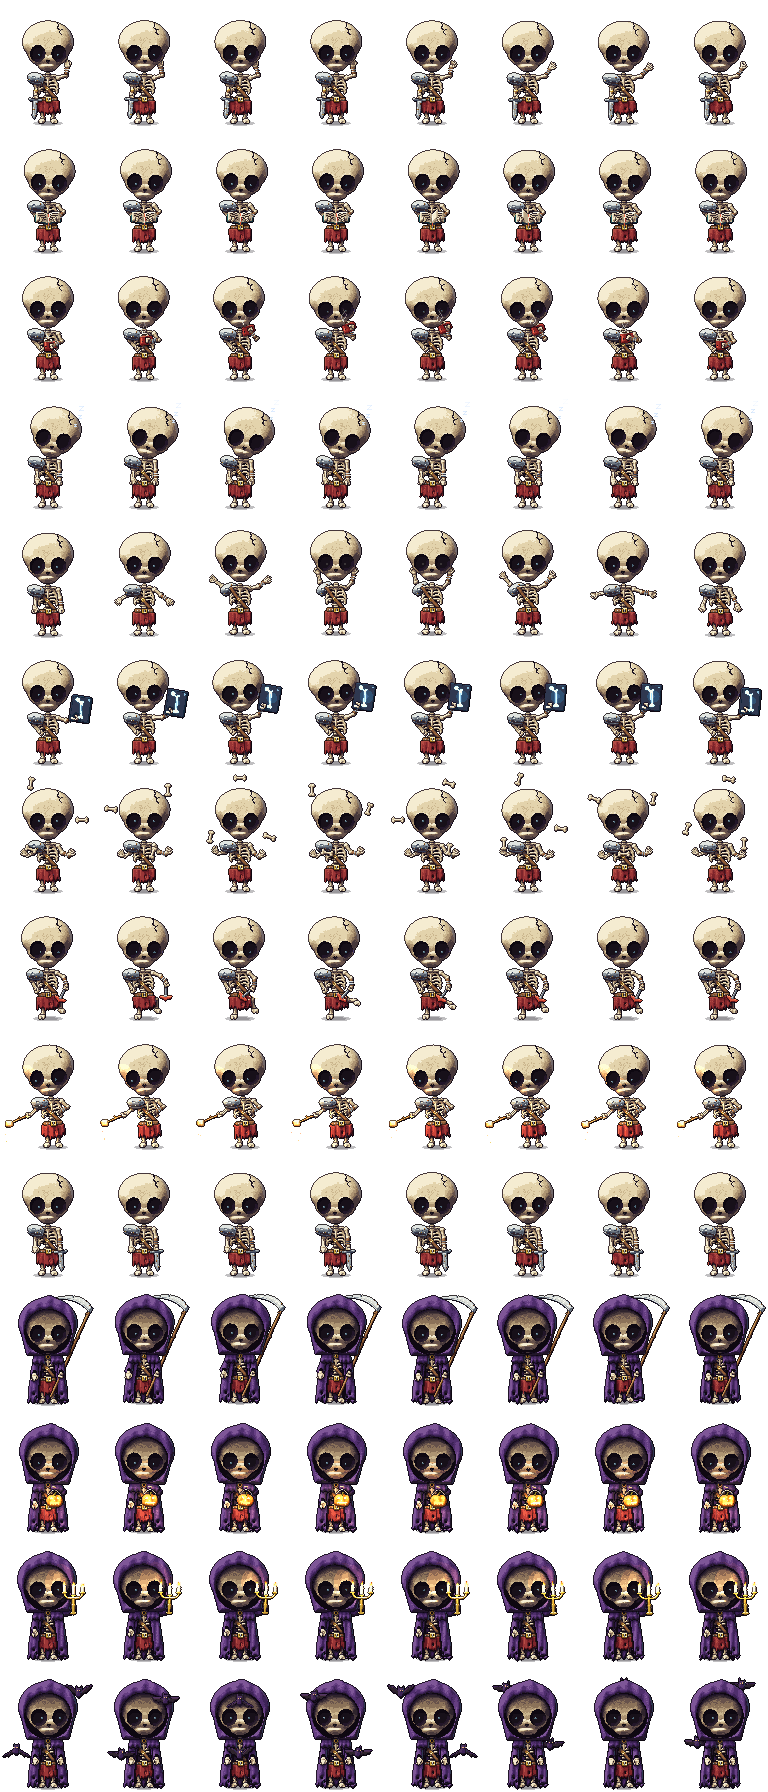
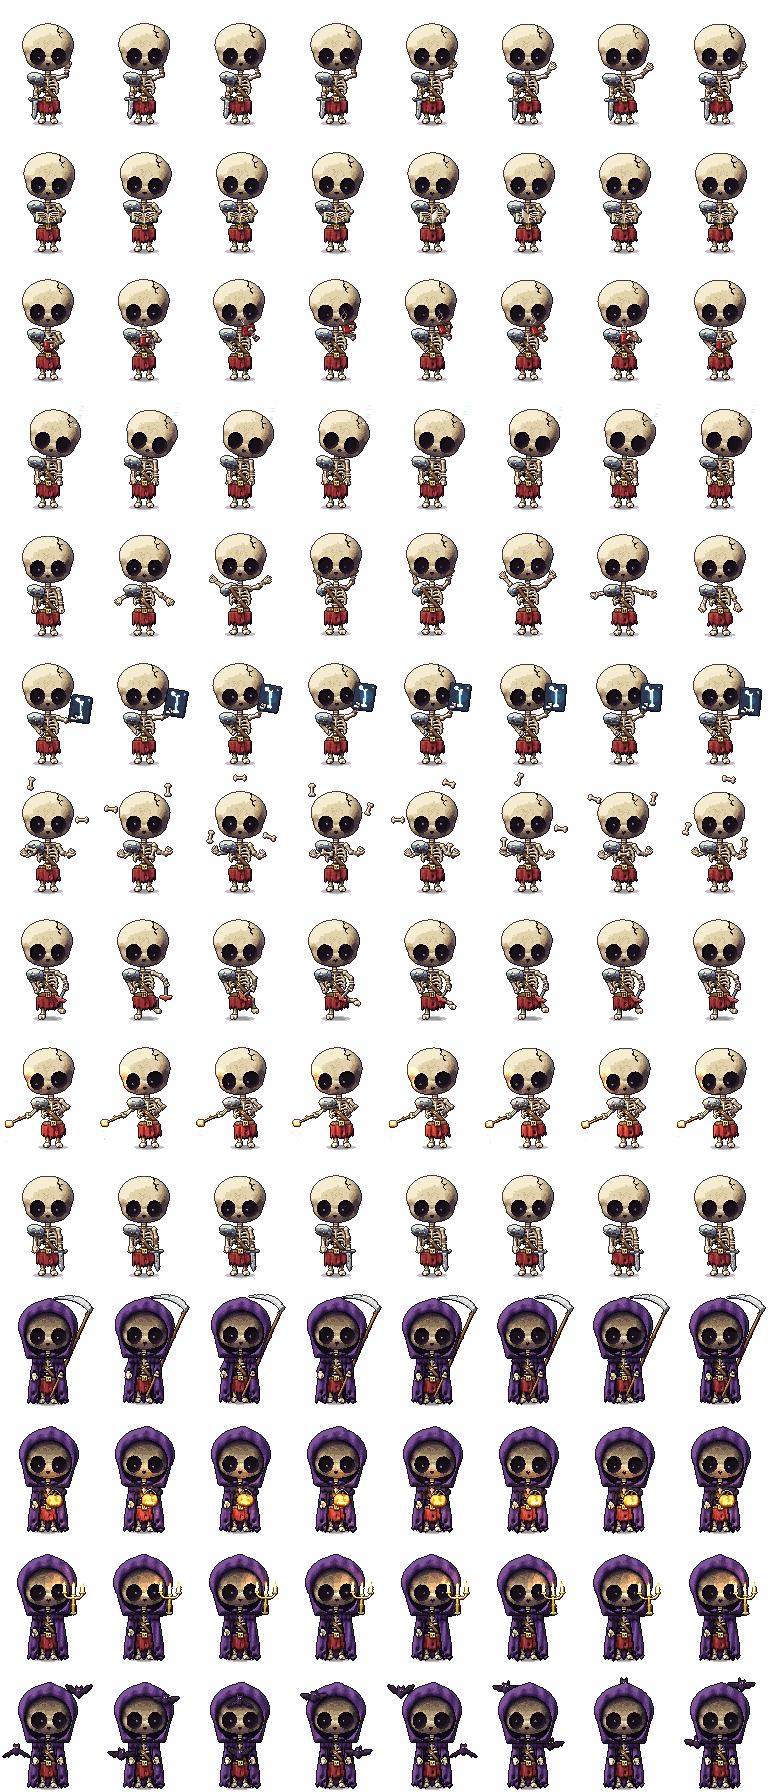
Mascote: rosto redondo como na referência, sem queixo saliente
O queixo emendado parecia um focinho. O rosto agora fecha numa curva larga
logo abaixo do nariz, o crânio desce um pouco e o pescoço ganha duas
vértebras para não ficar solto.

Claude-Session: https://claude.ai/code/session_01GbKgzzZKzHQDKNkw1eCv9w

diff --git a/scripts/gerar_mascote.py b/scripts/gerar_mascote.py
@@ -583,7 +583,7 @@ def montar(p: Pose) -> Rig:
     pesc = tr.p(0, -28.4 - p.resp * 0.5)
     piv = (pesc[0] + p.cab_dx, pesc[1] + p.cab_dy)
     ang_c = p.inclina + p.cab
-    cab = Quadro2D(Quadro2D(piv, ang_c).p(0, -24), ang_c)
+    cab = Quadro2D(Quadro2D(piv, ang_c).p(0, -21), ang_c)   # o crânio sem mandíbula desce um pouco
     r = Rig(raiz, P, tr, cab)
     for lado, s, (a1, a2, a3, _) in (("e", -1, p.be), ("d", 1, p.bd)):
         om = tr.p(s * 10.2, -22.8 - p.resp * 0.7)
@@ -681,14 +681,12 @@ def cranio(t: Tela, r: Rig, p: Pose, sob_capuz=False):
     q = r.cab
     uv = q.uv()
     v = p.vira
-    # calota: larga em cima, maçãs do rosto e maxila mais estreitas
+    # calota: larga e redonda em cima
     calota = elipse((0, -6.5), 25.0, 20.5)
-    rosto = elipse((0 + v * 0.8, 9.5), 17.0, 9.0)
-    macas = circulo((-14.5 + v * 1.2, 7.5), 4.0) | circulo((14.5 + v * 1.2, 7.5), 4.0)
-    # queixo arredondado, emendado no rosto: o crânio é uma peça só, sem dentes nem mandíbula separada
-    # (o Tales pediu, 30/10/2026)
-    queixo = elipse((v * 1.2, 17.8), 9.0, 5.0)
-    f = calota.suave(rosto, 5.0).suave(macas, 2.5).suave(queixo, 3.5)
+    # rosto largo que fecha numa curva redonda logo abaixo do nariz: crânio de peça só, sem queixo saliente,
+    # sem mandíbula nem dentes (referência do Tales, 30/10/2026)
+    rosto = elipse((0 + v * 0.8, 8.0), 20.5, 10.5)
+    f = calota.suave(rosto, 6.0)
     t.pinta(q.forma(f), "osso", 8.0, R=13.0, pid="cranio", uv=uv, semente=51)
     # sombras de modelado: têmporas, abaixo das maçãs, testa mais clara
     for sx in (-1, 1):
@@ -722,8 +720,8 @@ def cranio(t: Tela, r: Rig, p: Pose, sob_capuz=False):
     nz = (v * 2.4, 13.4)
     nariz = (circulo((nz[0] - 1.0, nz[1] - 0.6), 1.15) | circulo((nz[0] + 1.0, nz[1] - 0.6), 1.15)) | poligono([(nz[0] - 2.0, nz[1] - 0.4), (nz[0] + 2.0, nz[1] - 0.4), (nz[0], nz[1] + 2.0)])
     t.pinta(q.forma(nariz), "orbita", 8.01, R=-1.2, pid="cranio", tom=0.1)
-    # sem boca desenhada: só uma sombra suave embaixo do queixo, para dar volume
-    t.pinta(q.forma(elipse((v * 1.2, 21.6), 7.0, 2.2)), "osso", 0, sobre="cranio", tom=-0.12, uv=uv, semente=51, normal=False)
+    # sem boca desenhada: só a sombra da curva de baixo do rosto, para dar volume
+    t.pinta(q.forma(elipse((v * 1.0, 19.0), 14.0, 2.4)), "osso", 0, sobre="cranio", tom=-0.1, uv=uv, semente=51, normal=False)
     if sob_capuz:
         # sombra do capuz no alto do crânio
         def sombra_capuz(X, Y):
@@ -758,8 +756,8 @@ def tronco(t: Tela, r: Rig, p: Pose):
     t.pinta(q.forma(capsula((0, -23.6), (0, -12.0), 1.35, 1.0) | elipse((0, -23.0), 2.4, 1.8) | circulo((0, -11.0), 0.8)), "osso", 4.7, R=1.5, pid="esterno", uv=uv, semente=77)
     for s in (-1, 1):
         t.pinta(q.forma(traco(bezier((s * 1.8, -24.6), (s * 6.0, -26.6), (s * 10.0, -23.6), 7), 0.85)), "osso", 4.8, R=1.0, pid=f"clavicula{s}", uv=uv, semente=78)
-    # vértebras do pescoço
-    for k, y in enumerate((-27.4, -25.6)):
+    # vértebras do pescoço (aparecem entre o crânio redondo e as clavículas)
+    for k, y in enumerate((-31.0, -29.2, -27.4, -25.6)):
         t.pinta(q.forma(caixa((0, y), 1.9, 0.75, r=0.5)), "osso", 7.0, R=1.0, pid=f"cervical{k}", uv=uv, semente=79)
     # pelve (quase toda sob o cinto e o saiote)
     pel = elipse((-4.6, 0.8), 4.8, 3.6, 20).suave(elipse((4.6, 0.8), 4.8, 3.6, -20), 1.5).suave(caixa((0, 2.0), 2.4, 3.0, r=1.2), 1.0)
